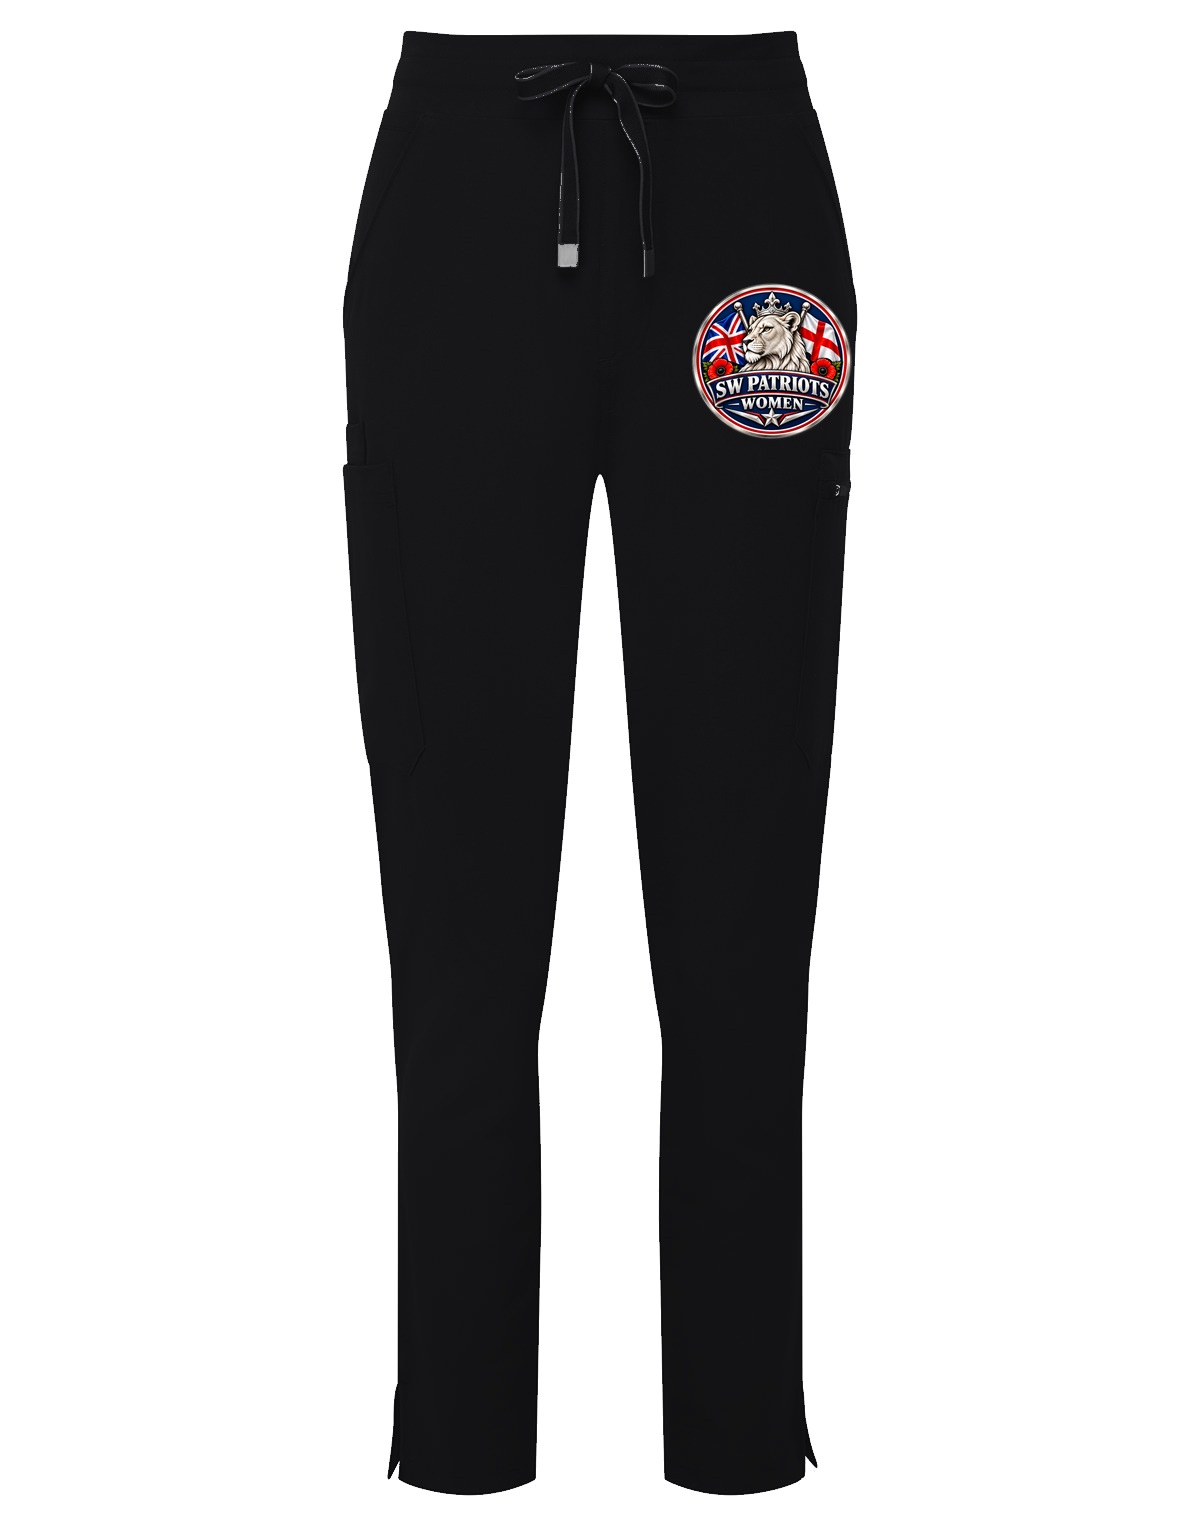
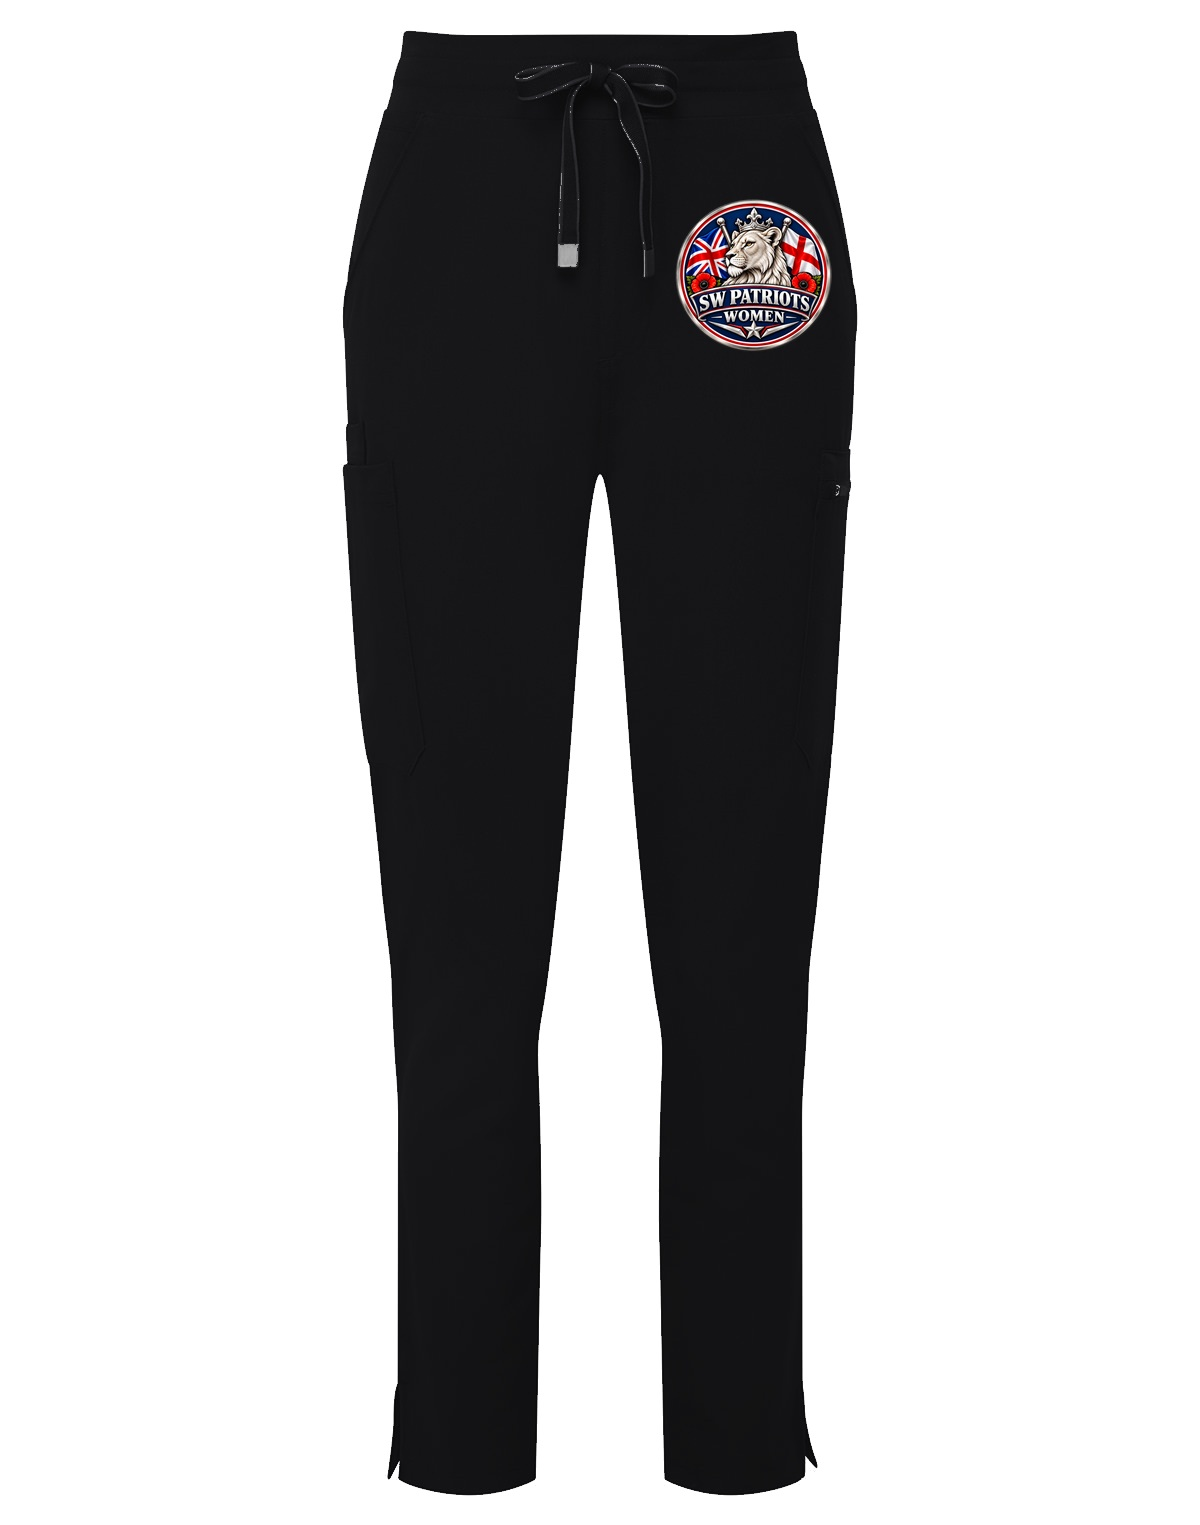
Align Women's Cargo crest pixel-accurately to Inkthreadable 100x100mm Left Leg box and bust cache across all listing grids

Changed region(s): [[0.555, 0.1233, 0.7092, 0.3082]]

diff --git a/src/data/products.ts b/src/data/products.ts
@@ -3108,7 +3108,7 @@ export const PRODUCTS: Product[] = [
         "taxable": true,
         "featured_image": {
           "id": 990001,
-          "src": "/images/products/womens-cargo-calm-pink.jpg",
+          "src": "/images/products/womens-cargo-calm-pink.jpg?v=2",
           "alt": "Women's Stretch Cargo Trousers - Calm Pink"
         },
         "available": true,
@@ -3129,7 +3129,7 @@ export const PRODUCTS: Product[] = [
         "taxable": true,
         "featured_image": {
           "id": 990001,
-          "src": "/images/products/womens-cargo-calm-pink.jpg",
+          "src": "/images/products/womens-cargo-calm-pink.jpg?v=2",
           "alt": "Women's Stretch Cargo Trousers - Calm Pink"
         },
         "available": true,
@@ -3150,7 +3150,7 @@ export const PRODUCTS: Product[] = [
         "taxable": true,
         "featured_image": {
           "id": 990001,
-          "src": "/images/products/womens-cargo-calm-pink.jpg",
+          "src": "/images/products/womens-cargo-calm-pink.jpg?v=2",
           "alt": "Women's Stretch Cargo Trousers - Calm Pink"
         },
         "available": true,
@@ -3171,7 +3171,7 @@ export const PRODUCTS: Product[] = [
         "taxable": true,
         "featured_image": {
           "id": 990001,
-          "src": "/images/products/womens-cargo-calm-pink.jpg",
+          "src": "/images/products/womens-cargo-calm-pink.jpg?v=2",
           "alt": "Women's Stretch Cargo Trousers - Calm Pink"
         },
         "available": true,
@@ -3192,7 +3192,7 @@ export const PRODUCTS: Product[] = [
         "taxable": true,
         "featured_image": {
           "id": 990001,
-          "src": "/images/products/womens-cargo-calm-pink.jpg",
+          "src": "/images/products/womens-cargo-calm-pink.jpg?v=2",
           "alt": "Women's Stretch Cargo Trousers - Calm Pink"
         },
         "available": true,
@@ -3213,7 +3213,7 @@ export const PRODUCTS: Product[] = [
         "taxable": true,
         "featured_image": {
           "id": 990001,
-          "src": "/images/products/womens-cargo-calm-pink.jpg",
+          "src": "/images/products/womens-cargo-calm-pink.jpg?v=2",
           "alt": "Women's Stretch Cargo Trousers - Calm Pink"
         },
         "available": true,
@@ -3234,7 +3234,7 @@ export const PRODUCTS: Product[] = [
         "taxable": true,
         "featured_image": {
           "id": 990001,
-          "src": "/images/products/womens-cargo-calm-pink.jpg",
+          "src": "/images/products/womens-cargo-calm-pink.jpg?v=2",
           "alt": "Women's Stretch Cargo Trousers - Calm Pink"
         },
         "available": true,
@@ -3255,7 +3255,7 @@ export const PRODUCTS: Product[] = [
         "taxable": true,
         "featured_image": {
           "id": 990001,
-          "src": "/images/products/womens-cargo-calm-pink.jpg",
+          "src": "/images/products/womens-cargo-calm-pink.jpg?v=2",
           "alt": "Women's Stretch Cargo Trousers - Calm Pink"
         },
         "available": true,
@@ -3276,7 +3276,7 @@ export const PRODUCTS: Product[] = [
         "taxable": true,
         "featured_image": {
           "id": 990001,
-          "src": "/images/products/womens-cargo-calm-pink.jpg",
+          "src": "/images/products/womens-cargo-calm-pink.jpg?v=2",
           "alt": "Women's Stretch Cargo Trousers - Calm Pink"
         },
         "available": true,
@@ -3297,7 +3297,7 @@ export const PRODUCTS: Product[] = [
         "taxable": true,
         "featured_image": {
           "id": 990002,
-          "src": "/images/products/womens-cargo-black.jpg",
+          "src": "/images/products/womens-cargo-black.jpg?v=2",
           "alt": "Women's Stretch Cargo Trousers - Black"
         },
         "available": true,
@@ -3318,7 +3318,7 @@ export const PRODUCTS: Product[] = [
         "taxable": true,
         "featured_image": {
           "id": 990002,
-          "src": "/images/products/womens-cargo-black.jpg",
+          "src": "/images/products/womens-cargo-black.jpg?v=2",
           "alt": "Women's Stretch Cargo Trousers - Black"
         },
         "available": true,
@@ -3339,7 +3339,7 @@ export const PRODUCTS: Product[] = [
         "taxable": true,
         "featured_image": {
           "id": 990002,
-          "src": "/images/products/womens-cargo-black.jpg",
+          "src": "/images/products/womens-cargo-black.jpg?v=2",
           "alt": "Women's Stretch Cargo Trousers - Black"
         },
         "available": true,
@@ -3360,7 +3360,7 @@ export const PRODUCTS: Product[] = [
         "taxable": true,
         "featured_image": {
           "id": 990002,
-          "src": "/images/products/womens-cargo-black.jpg",
+          "src": "/images/products/womens-cargo-black.jpg?v=2",
           "alt": "Women's Stretch Cargo Trousers - Black"
         },
         "available": true,
@@ -3381,7 +3381,7 @@ export const PRODUCTS: Product[] = [
         "taxable": true,
         "featured_image": {
           "id": 990002,
-          "src": "/images/products/womens-cargo-black.jpg",
+          "src": "/images/products/womens-cargo-black.jpg?v=2",
           "alt": "Women's Stretch Cargo Trousers - Black"
         },
         "available": true,
@@ -3402,7 +3402,7 @@ export const PRODUCTS: Product[] = [
         "taxable": true,
         "featured_image": {
           "id": 990002,
-          "src": "/images/products/womens-cargo-black.jpg",
+          "src": "/images/products/womens-cargo-black.jpg?v=2",
           "alt": "Women's Stretch Cargo Trousers - Black"
         },
         "available": true,
@@ -3423,7 +3423,7 @@ export const PRODUCTS: Product[] = [
         "taxable": true,
         "featured_image": {
           "id": 990002,
-          "src": "/images/products/womens-cargo-black.jpg",
+          "src": "/images/products/womens-cargo-black.jpg?v=2",
           "alt": "Women's Stretch Cargo Trousers - Black"
         },
         "available": true,
@@ -3444,7 +3444,7 @@ export const PRODUCTS: Product[] = [
         "taxable": true,
         "featured_image": {
           "id": 990002,
-          "src": "/images/products/womens-cargo-black.jpg",
+          "src": "/images/products/womens-cargo-black.jpg?v=2",
           "alt": "Women's Stretch Cargo Trousers - Black"
         },
         "available": true,
@@ -3465,7 +3465,7 @@ export const PRODUCTS: Product[] = [
         "taxable": true,
         "featured_image": {
           "id": 990002,
-          "src": "/images/products/womens-cargo-black.jpg",
+          "src": "/images/products/womens-cargo-black.jpg?v=2",
           "alt": "Women's Stretch Cargo Trousers - Black"
         },
         "available": true,
@@ -3486,7 +3486,7 @@ export const PRODUCTS: Product[] = [
         "taxable": true,
         "featured_image": {
           "id": 990003,
-          "src": "/images/products/womens-cargo-ceil-blue.jpg",
+          "src": "/images/products/womens-cargo-ceil-blue.jpg?v=2",
           "alt": "Women's Stretch Cargo Trousers - Ceil Blue"
         },
         "available": true,
@@ -3507,7 +3507,7 @@ export const PRODUCTS: Product[] = [
         "taxable": true,
         "featured_image": {
           "id": 990003,
-          "src": "/images/products/womens-cargo-ceil-blue.jpg",
+          "src": "/images/products/womens-cargo-ceil-blue.jpg?v=2",
           "alt": "Women's Stretch Cargo Trousers - Ceil Blue"
         },
         "available": true,
@@ -3528,7 +3528,7 @@ export const PRODUCTS: Product[] = [
         "taxable": true,
         "featured_image": {
           "id": 990003,
-          "src": "/images/products/womens-cargo-ceil-blue.jpg",
+          "src": "/images/products/womens-cargo-ceil-blue.jpg?v=2",
           "alt": "Women's Stretch Cargo Trousers - Ceil Blue"
         },
         "available": true,
@@ -3549,7 +3549,7 @@ export const PRODUCTS: Product[] = [
         "taxable": true,
         "featured_image": {
           "id": 990003,
-          "src": "/images/products/womens-cargo-ceil-blue.jpg",
+          "src": "/images/products/womens-cargo-ceil-blue.jpg?v=2",
           "alt": "Women's Stretch Cargo Trousers - Ceil Blue"
         },
         "available": true,
@@ -3570,7 +3570,7 @@ export const PRODUCTS: Product[] = [
         "taxable": true,
         "featured_image": {
           "id": 990003,
-          "src": "/images/products/womens-cargo-ceil-blue.jpg",
+          "src": "/images/products/womens-cargo-ceil-blue.jpg?v=2",
           "alt": "Women's Stretch Cargo Trousers - Ceil Blue"
         },
         "available": true,
@@ -3591,7 +3591,7 @@ export const PRODUCTS: Product[] = [
         "taxable": true,
         "featured_image": {
           "id": 990003,
-          "src": "/images/products/womens-cargo-ceil-blue.jpg",
+          "src": "/images/products/womens-cargo-ceil-blue.jpg?v=2",
           "alt": "Women's Stretch Cargo Trousers - Ceil Blue"
         },
         "available": true,
@@ -3612,7 +3612,7 @@ export const PRODUCTS: Product[] = [
         "taxable": true,
         "featured_image": {
           "id": 990003,
-          "src": "/images/products/womens-cargo-ceil-blue.jpg",
+          "src": "/images/products/womens-cargo-ceil-blue.jpg?v=2",
           "alt": "Women's Stretch Cargo Trousers - Ceil Blue"
         },
         "available": true,
@@ -3633,7 +3633,7 @@ export const PRODUCTS: Product[] = [
         "taxable": true,
         "featured_image": {
           "id": 990003,
-          "src": "/images/products/womens-cargo-ceil-blue.jpg",
+          "src": "/images/products/womens-cargo-ceil-blue.jpg?v=2",
           "alt": "Women's Stretch Cargo Trousers - Ceil Blue"
         },
         "available": true,
@@ -3654,7 +3654,7 @@ export const PRODUCTS: Product[] = [
         "taxable": true,
         "featured_image": {
           "id": 990003,
-          "src": "/images/products/womens-cargo-ceil-blue.jpg",
+          "src": "/images/products/womens-cargo-ceil-blue.jpg?v=2",
           "alt": "Women's Stretch Cargo Trousers - Ceil Blue"
         },
         "available": true,
@@ -3668,17 +3668,17 @@ export const PRODUCTS: Product[] = [
     "images": [
       {
         "id": 990001,
-        "src": "/images/products/womens-cargo-calm-pink.jpg",
+        "src": "/images/products/womens-cargo-calm-pink.jpg?v=2",
         "alt": "Women's Stretch Cargo Trousers - Calm Pink"
       },
       {
         "id": 990002,
-        "src": "/images/products/womens-cargo-black.jpg",
+        "src": "/images/products/womens-cargo-black.jpg?v=2",
         "alt": "Women's Stretch Cargo Trousers - Black"
       },
       {
         "id": 990003,
-        "src": "/images/products/womens-cargo-ceil-blue.jpg",
+        "src": "/images/products/womens-cargo-ceil-blue.jpg?v=2",
         "alt": "Women's Stretch Cargo Trousers - Ceil Blue"
       }
     ],
@@ -3708,7 +3708,7 @@ export const PRODUCTS: Product[] = [
         ]
       }
     ],
-    "featuredImage": "/images/products/womens-cargo-calm-pink.jpg",
+    "featuredImage": "/images/products/womens-cargo-calm-pink.jpg?v=2",
     "startingPrice": "45.99"
   },
   {
